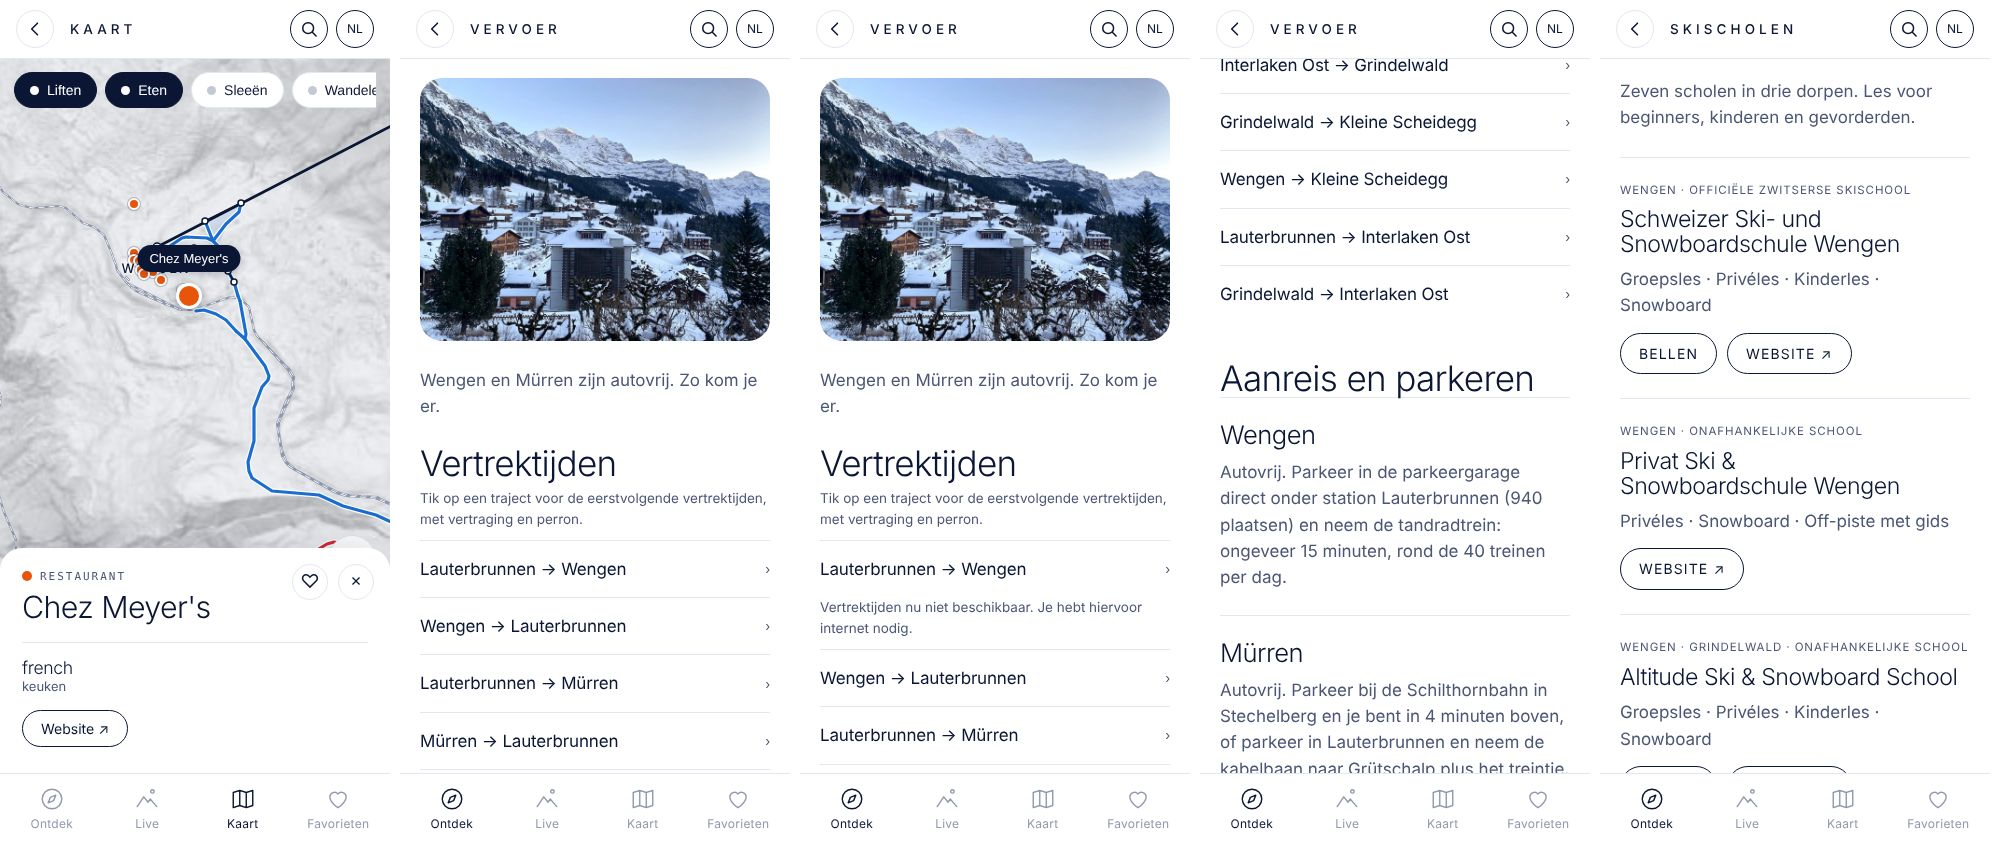
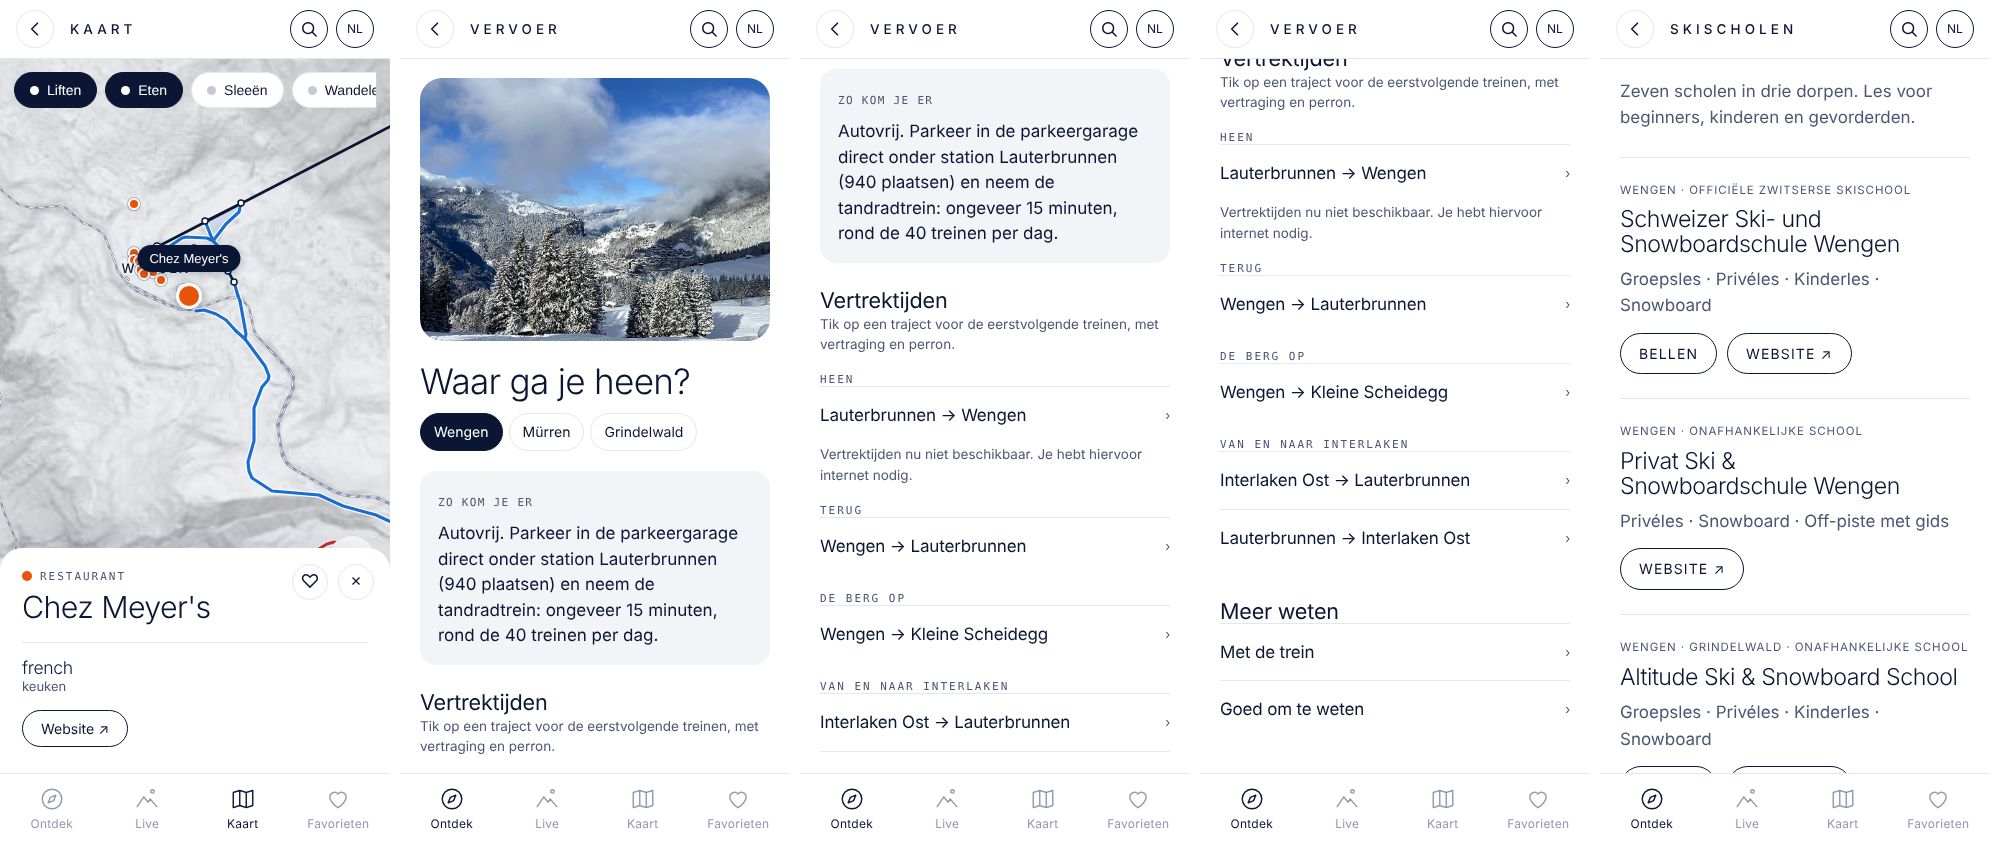
Vervoer: beeld van de trein in besneeuwd Matten bei Interlaken
Claude-Session: https://claude.ai/code/session_01BKK4JeDJLrK7vcsz3SwdsN

diff --git a/app/index.html b/app/index.html
@@ -867,7 +867,7 @@ function drawStart(){
   const G={blue:'#1C6DD0',red:'#D42A3A',black:'#2B2B31'},lv=t('lv');
   $('#tiles').innerHTML=ROUTES.map(r=>{const d=R(r.id);return `<button class="tile" onclick="openRoute(${r.id})">${rtImg(r.id,'loading="lazy"')}<span class="label">${t('route')} ${r.id} · ${lv[r.lv]}</span><b>${d[0]}</b><span class="tm">${d[1]} → ${d[2]} · ${d[4]}</span></button>`}).join('');
   $('#heroSun').textContent=zt(sunTimes(Date.now())[1]);
-    $('#banTravel').innerHTML=`<img src="https://dam.media.jungfrau.ch/image/upload/s--GcE6Jh4g--/c_limit,f_auto,h_800/v1772439890/Wengernalpbahn-Zug-im-Schnee-mit-KLS-im-Hintergrund" onerror="this.onerror=null;this.src='media/e-wengen2.jpg';var n=this.nextElementSibling;if(n)n.hidden=true" alt=""><figcaption>Wengernalpbahn · ${JBCR}</figcaption>`;
+    $('#banTravel').innerHTML=`<img src="https://dam.media.jungfrau.ch/image/upload/s--_GtRHbPy--/c_limit,f_auto,h_800/v1770914592/Haltestelle-Matten-bei-Interlaken-BOB-Winter" onerror="this.onerror=null;this.src='media/e-wengen2.jpg';var n=this.nextElementSibling;if(n)n.hidden=true" alt=""><figcaption>Matten bei Interlaken · ${JBCR}</figcaption>`;
   $('#imgNote').hidden=!IMG.ai;
   $('#rulesL').innerHTML=sec('rules').map(r=>`<li>${r}</li>`).join('');$('#tipsL').innerHTML=sec('tips').map(r=>`<li>${r}</li>`).join('');
   $('#ttl').textContent=curView==='start'?'Firn':t(TITLE[curView]);
